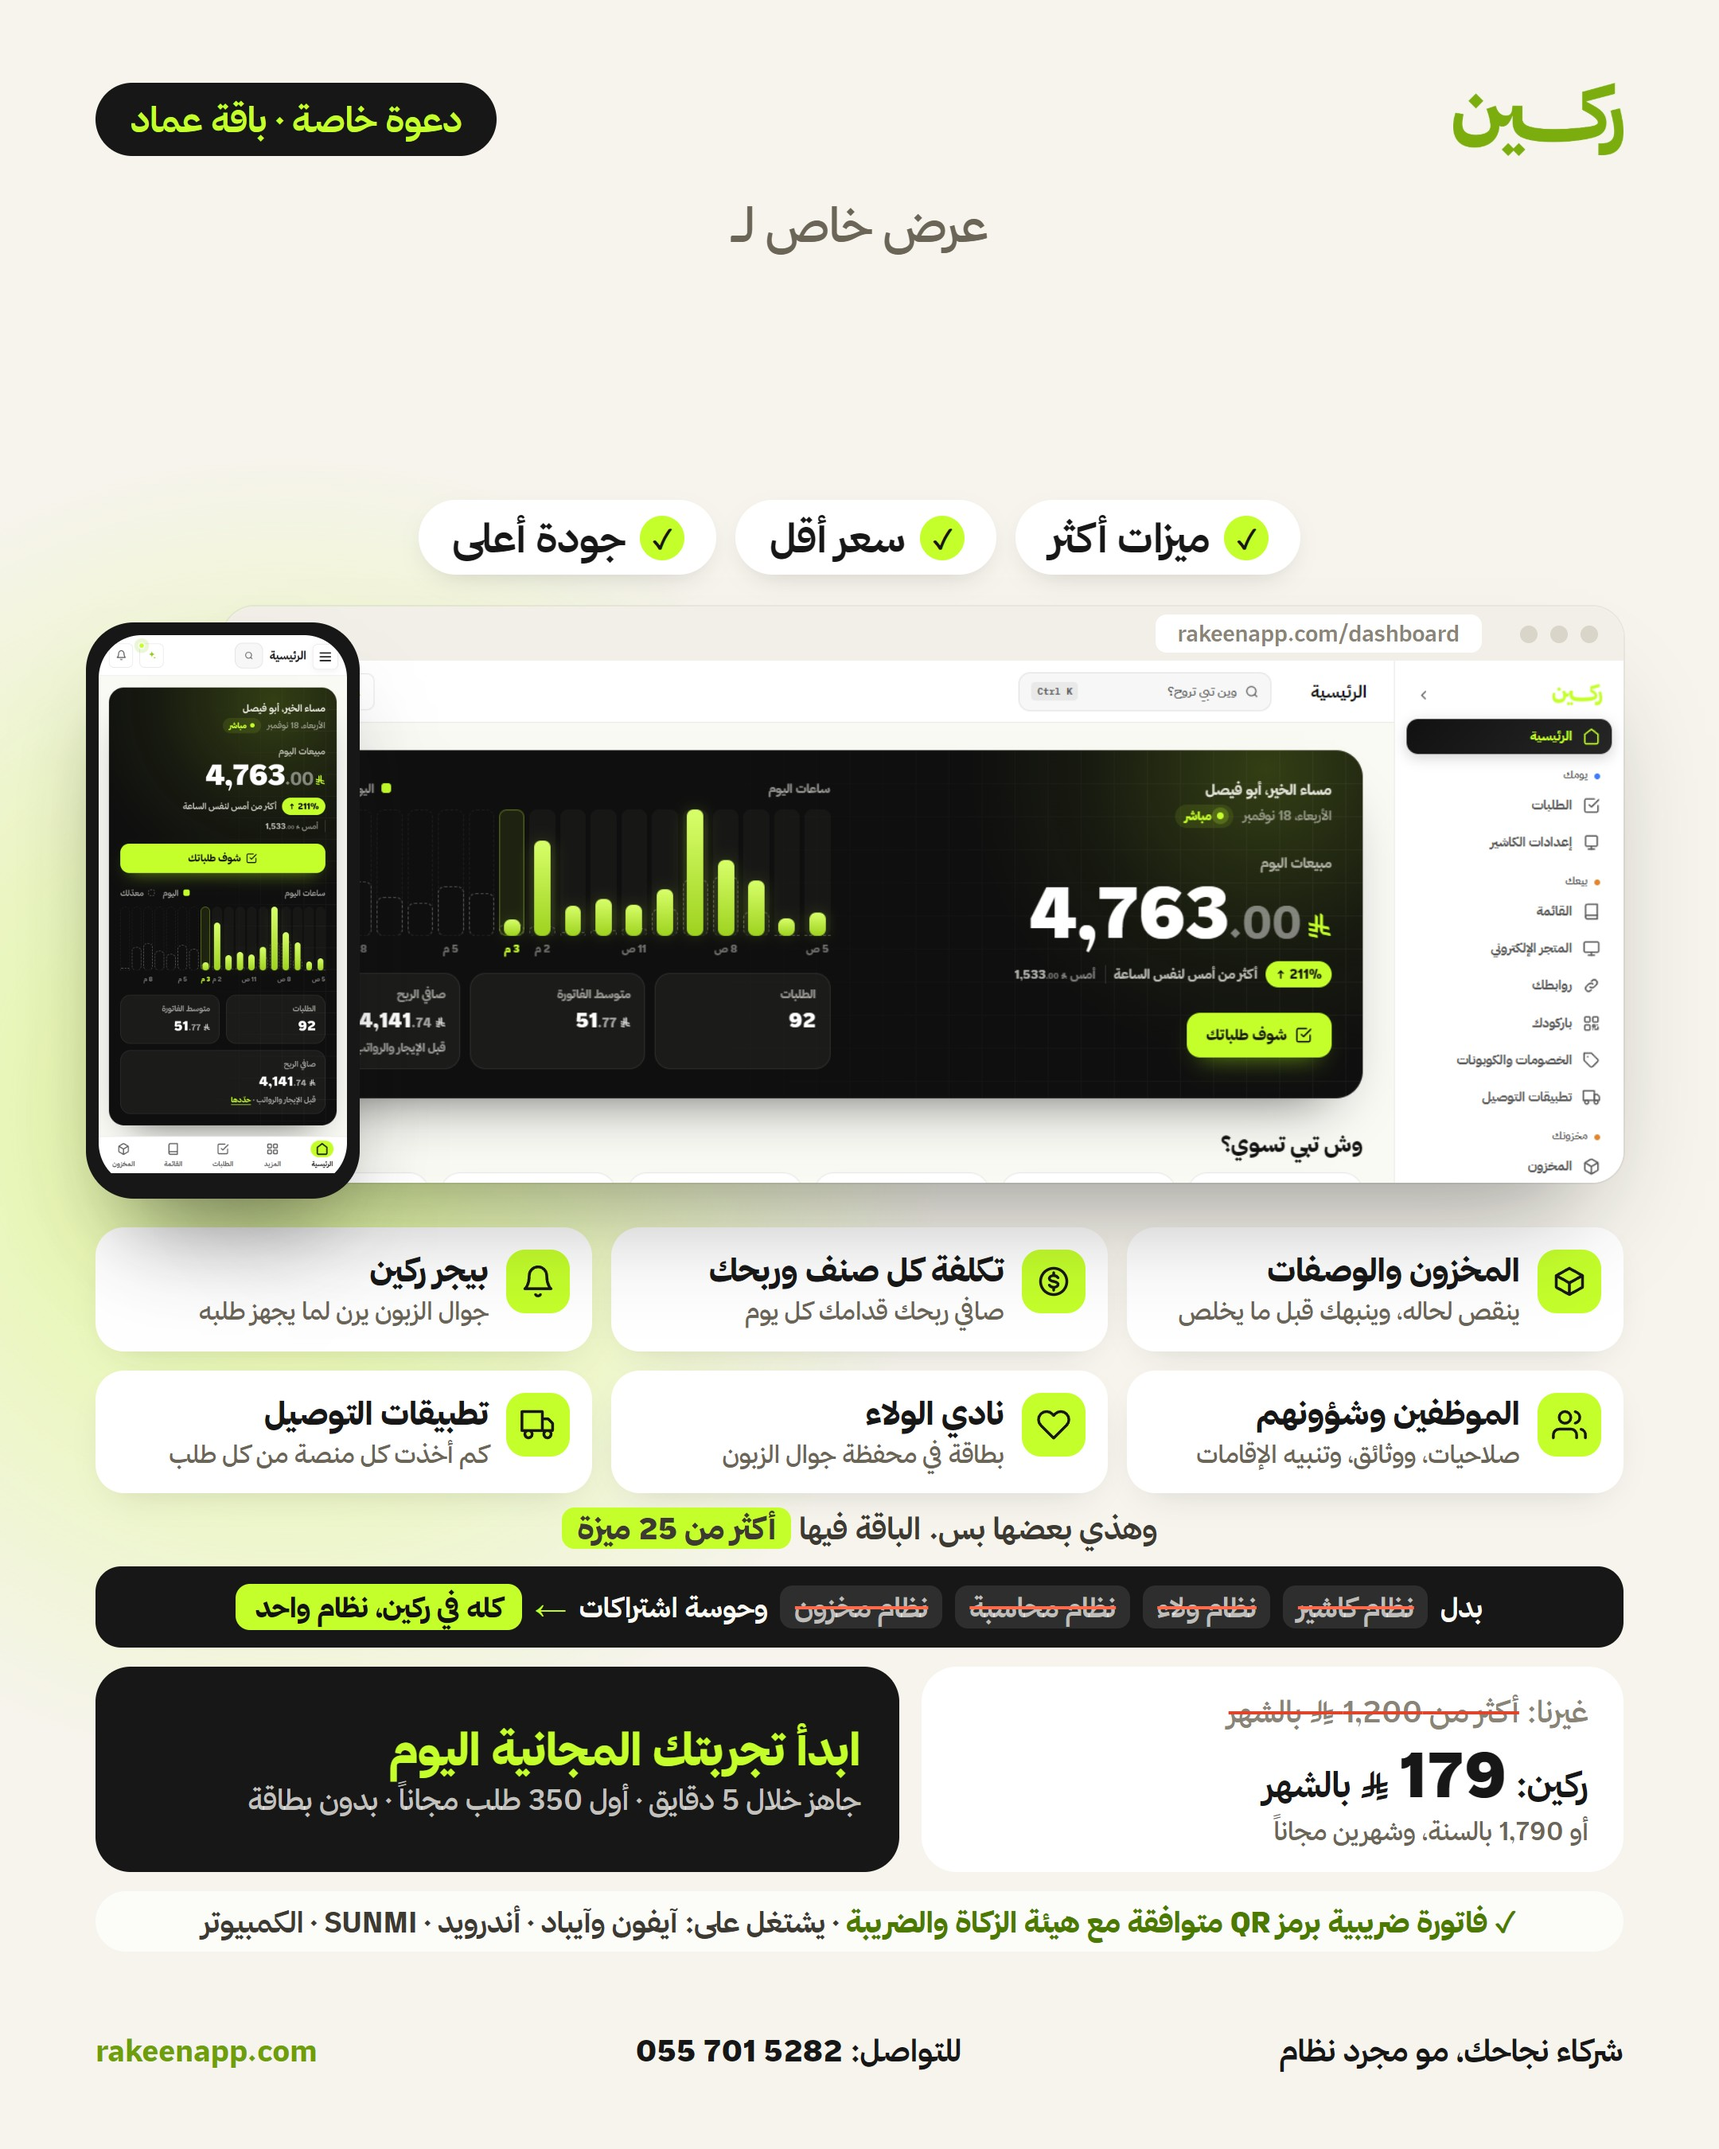
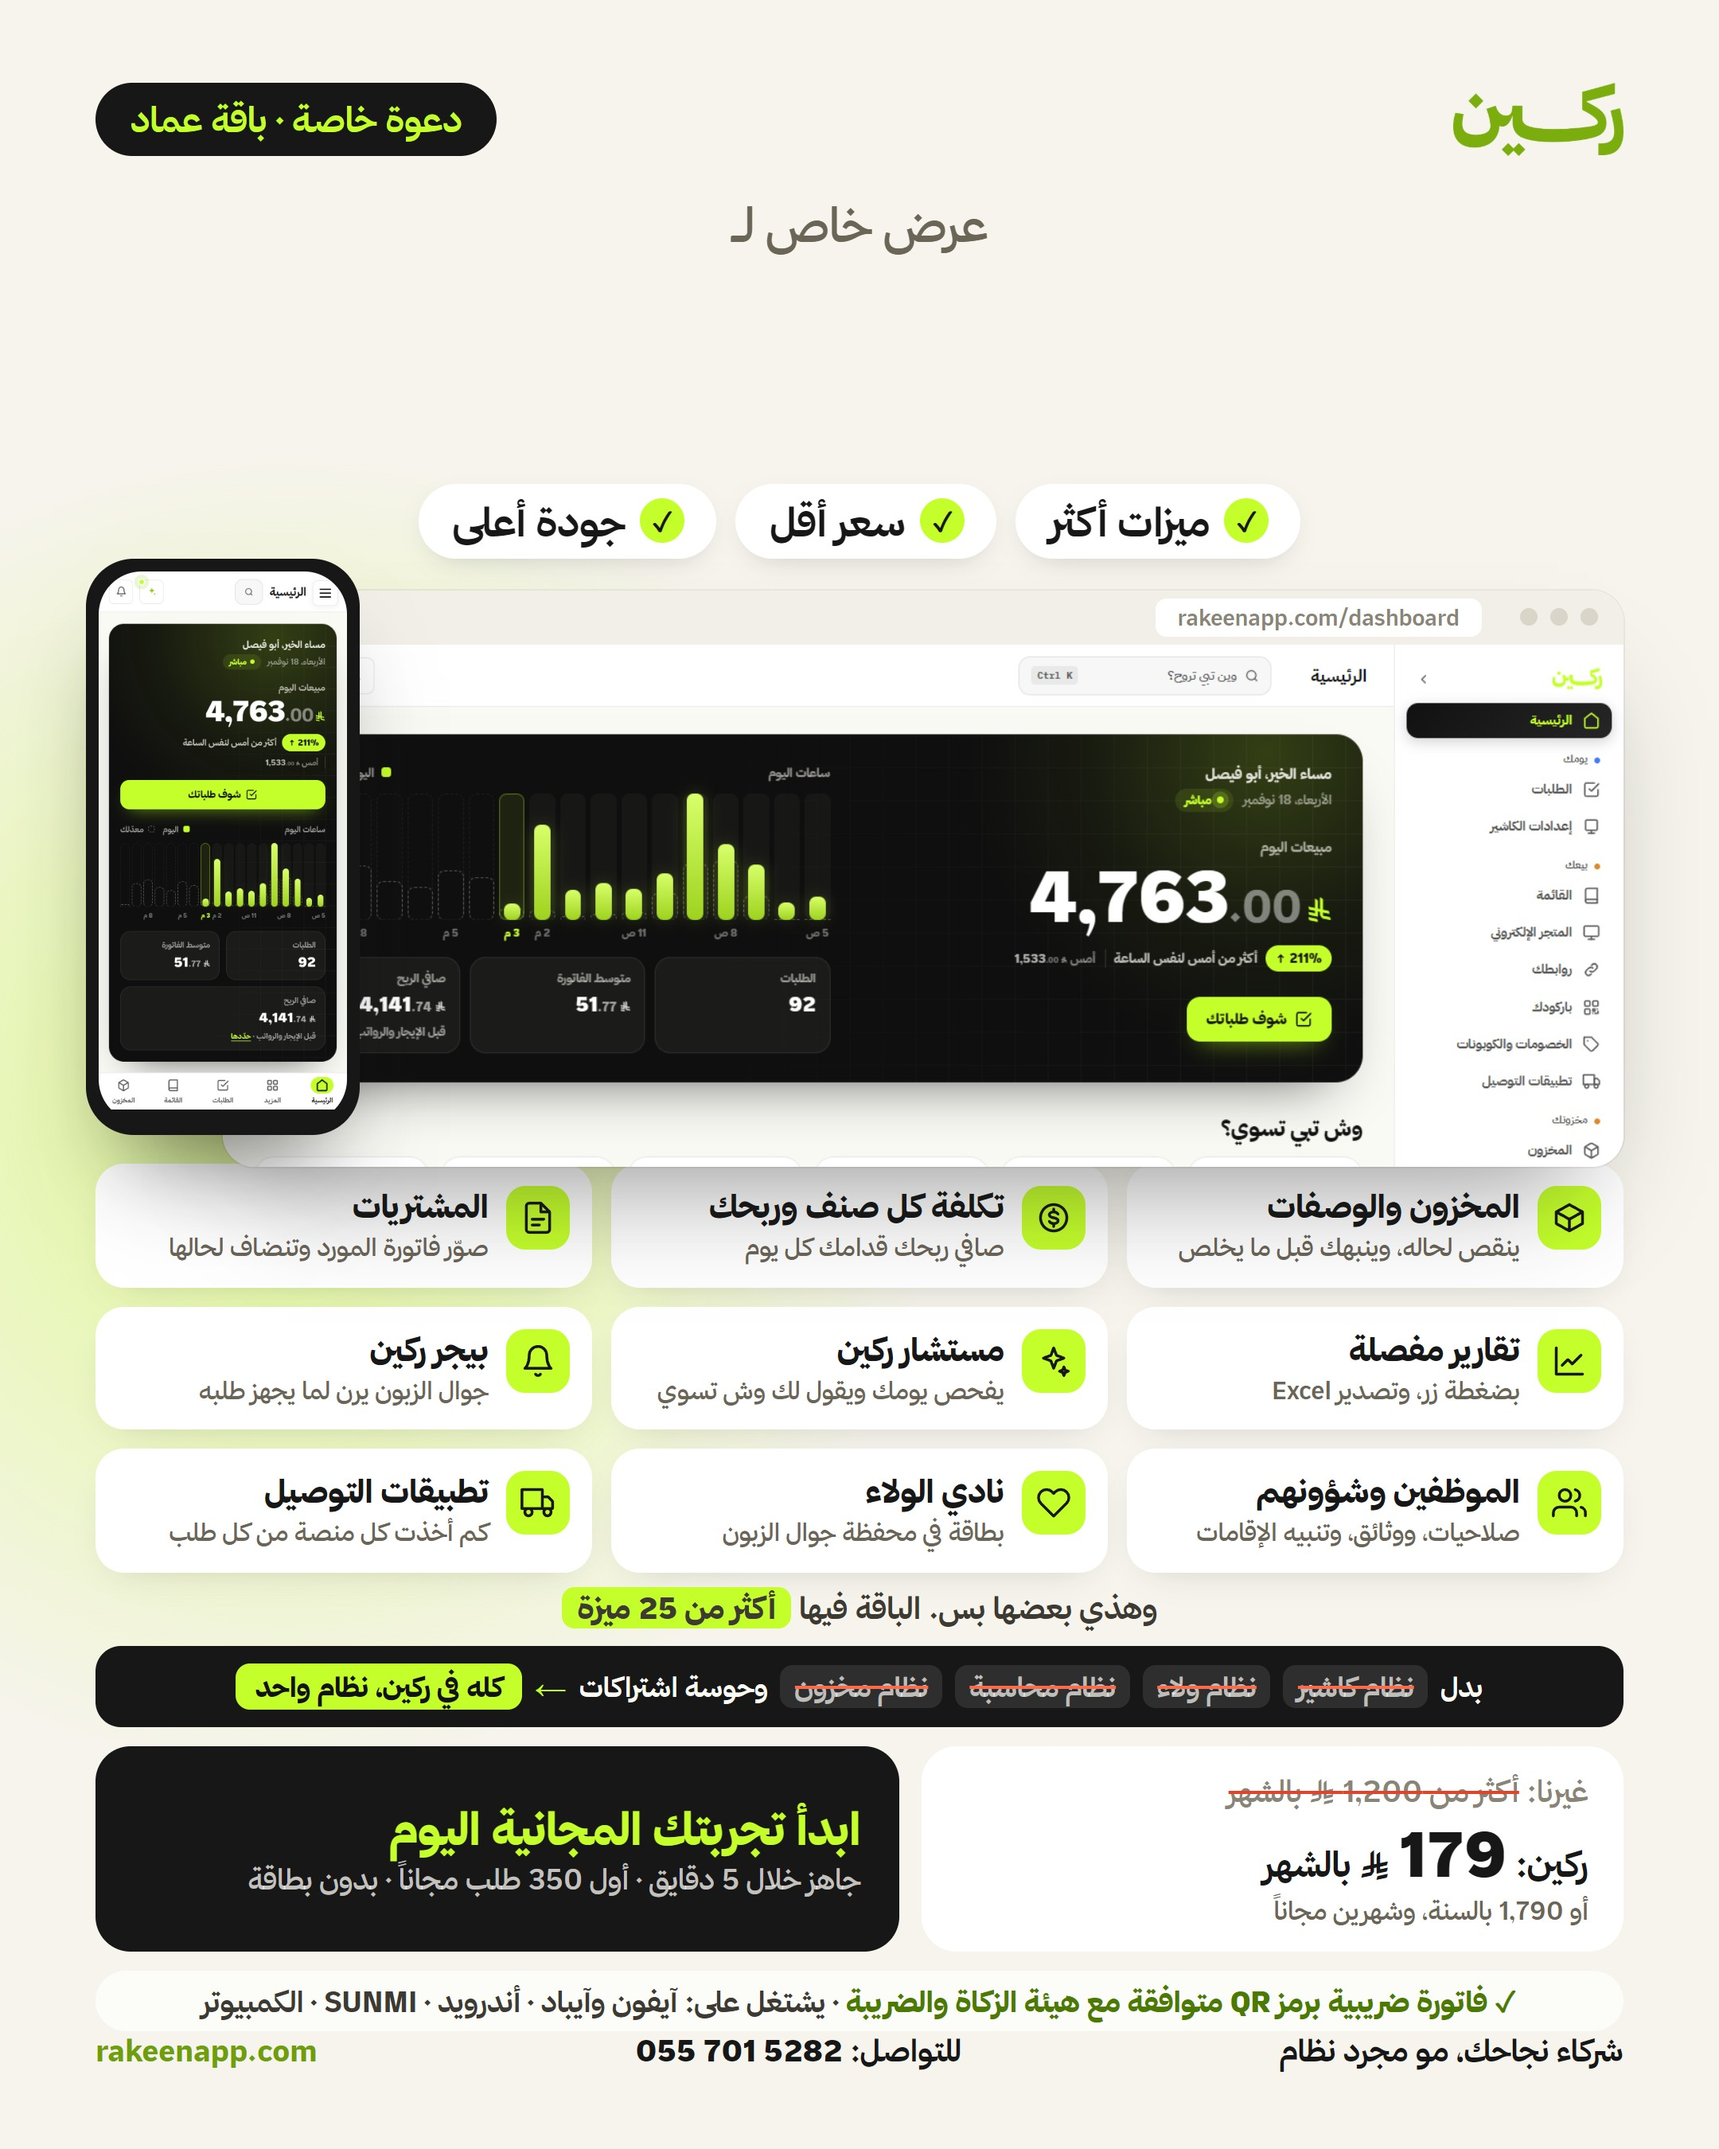
عرض خاص: المشتريات والتقارير المفصلة ومستشار ركين في التصميم والرسالة

Changed region(s): [[0.031, 0.2178, 0.9616, 0.9644], [0.2481, 0.2178, 0.4032, 0.28], [0.7755, 0.9333, 0.8065, 0.9644]]

diff --git a/app/admin/OfferPanel.tsx b/app/admin/OfferPanel.tsx
@@ -24,6 +24,9 @@ const PLAN_INFO: Record<OfferPlan, { name: string; monthly: string; annual: stri
       "💰 الأرباح: تكلفة كل صنف وصافي ربحك قدامك كل يوم",
       "❤ الولاء: الزبون ياخذ بطاقة في محفظة جواله ويرجع لك",
       "🛵 التوصيل: تشوف كم أخذت كل منصة من كل طلب",
+      "🧾 المشتريات: صوّر فاتورة المورد وتنضاف لحالها",
+      "📊 تقارير مفصلة تطلع بضغطة زر، وتصدير Excel",
+      "✨ مستشار ركين: يفحص يومك ويقول لك وش تسوي",
       "🔔 بيجر ركين: جوال الزبون يرن لما يجهز طلبه، بدل أجهزة النداء",
       "👥 الموظفين: صلاحيات ووثائق وتنبيه قبل انتهاء الإقامة",
       "🧾 فاتورة ضريبية برمز QR متوافقة مع هيئة الزكاة والضريبة، والعمل بدون نت، وتقارير كاملة",
@@ -39,6 +42,9 @@ const PLAN_INFO: Record<OfferPlan, { name: string; monthly: string; annual: stri
       "🏪 الفروع: كل فروعك وتقاريرها من لوحة وحدة",
       "📦 المخزون: ينبهك قبل ما يخلص، وينقص لحاله مع كل بيعة",
       "💰 الأرباح: تكلفة كل صنف وصافي ربحك قدامك كل يوم",
+      "🧾 المشتريات: صوّر فاتورة المورد وتنضاف لحالها",
+      "📊 تقارير مفصلة تطلع بضغطة زر، وتصدير Excel",
+      "✨ مستشار ركين: يفحص يومك ويقول لك وش تسوي",
       "🔔 بيجر ركين: جوال الزبون يرن لما يجهز طلبه، بدل أجهزة النداء",
       "👥 الموظفين: صلاحيات ووثائق وتنبيه قبل انتهاء الإقامة",
       "❤ الولاء: الزبون ياخذ بطاقة في محفظة جواله ويرجع لك",
